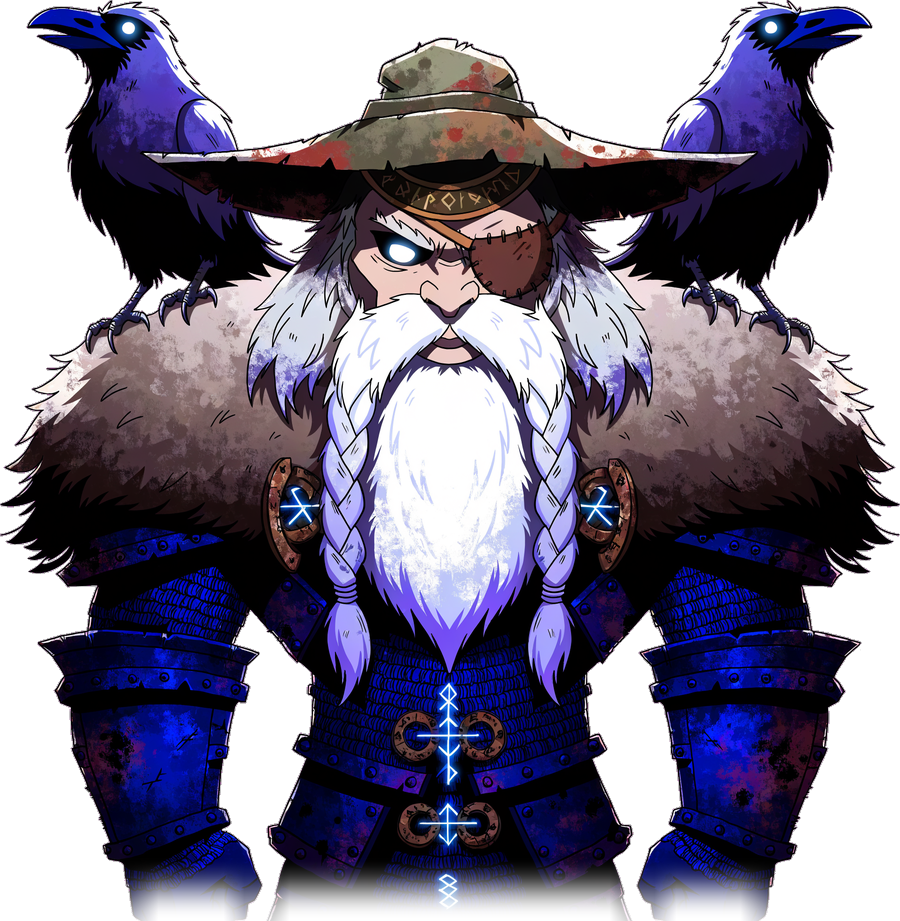
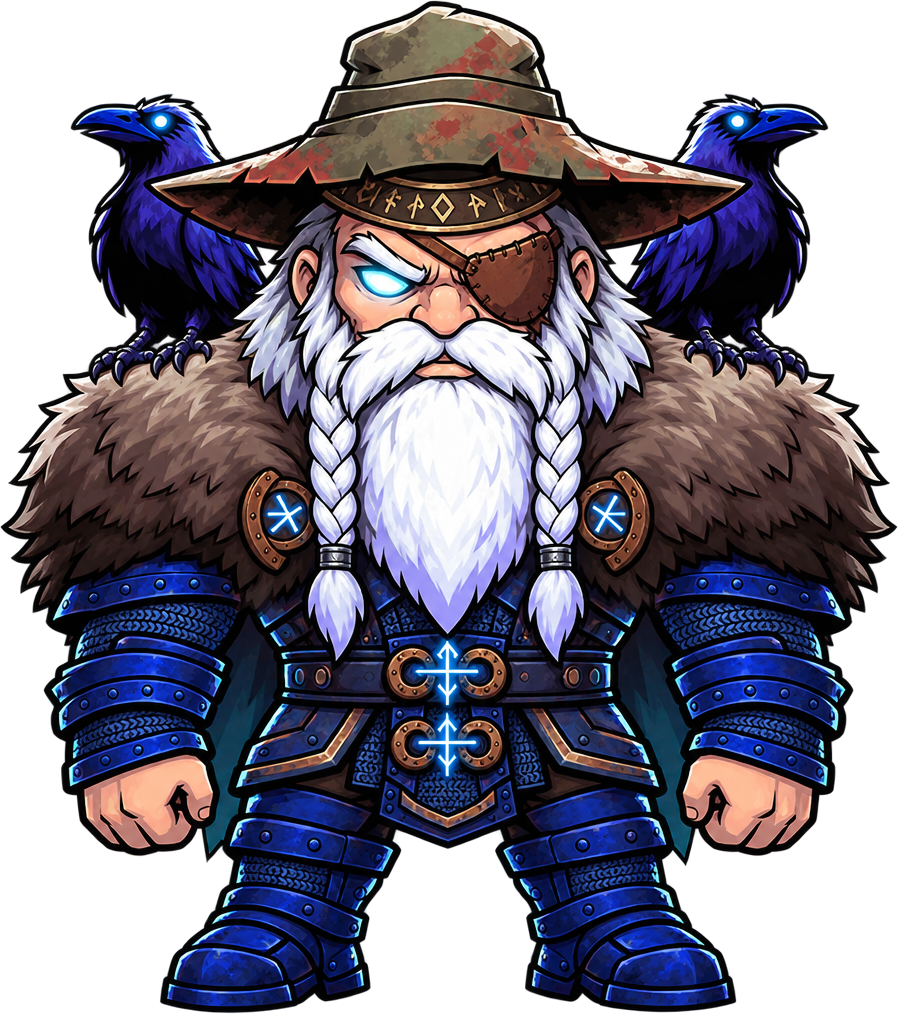
Redraw ODIN as a chibi in Thor's style, lay a Valknut floor under the Gates of the Viking, and set two ravens circling it
The old Odin was an anime-proportioned painting with a purple burst behind him, cut at
mid-thigh with a separately generated boot keyed in at runtime. He did not stand in the
same family as Thor and the dungeon trolls. Higgsfield (gpt_image_2_5 flare, high, 1k,
Thor + the old Odin as references) redrew him as one complete chibi master, so he now
goes through the ordinary RAID_SKINS path: body, hop, breath, lean, foot motion and
Gungnir pivoting on the fist. The odinPainted draw path, ODIN_SKIN and
odin_foot_complete.png are gone. raidBlade takes a soak flag so the spear keeps its own
paint and only borrows the ice-blue glow.

The arena map was a football pitch. It is now a Valknut forecourt in the Thor map's
camera, 1536x1024 like the other maps.

HarborWorld's gull loop became drawFlight (birds, image, size, ink); the Harbour calls it
as before and Odin's arena flies two ravens on it, a top-down raven drawn to match the
gull. Job ids, crops and the reviewed numbers are in assets/boss/odin-manifest.json.

diff --git a/game.js b/game.js
@@ -232,9 +232,12 @@ const CHAR_RUN={};
 const bootImg=new Image();bootImg.src='assets/characters/fot.png';
 const bowImg=new Image();bowImg.src='assets/weapons/bow.png';
 const maceImg=new Image();maceImg.src='assets/weapons/mace.png';
-/* ODIN's art was repainted in the Thor style - same filename, new picture, so the ?v= is what
-   stops a browser that already cached the old boss from serving it forever. */
-const odinImg=new Image();odinImg.src='assets/boss/odin_boss.png?v=2';
+/* ODIN was redrawn as a chibi in Thor's style on 2026-09-22 (assets/boss/odin-manifest.json) - same
+   filename, new picture, so the ?v= is what stops a browser that already cached the old boss from
+   serving it forever. Huginn and Muninn circle his arena on the Harbour's gull flight path. */
+const odinImg=new Image();odinImg.src='assets/boss/odin_boss.png?v=3';
+const odinRavenImg=new Image();odinRavenImg.src='assets/boss/odin_raven.png';
+const ODIN_RAVENS=Object.freeze([[1200,800,780,430,.11,0],[1200,800,560,330,-.09,2.6]]); /* [cx,cy,rx,ry,rad/s,phase] in the 2400x1600 arena */
 const odinSpearImg=new Image();odinSpearImg.src='assets/boss/odin_spear.png?v=2';
 const pickImg=new Image();pickImg.src='assets/weapons/pickaxe.png?v=2'; /* the miner's tool */
 /* the three lords of the Violet Halls - painted bodies + one shared blade, tinted per lord */
@@ -401,7 +404,6 @@ const torWeaponImg=new Image();torWeaponImg.src='assets/boss/tor_weapon.png?v=2'
 const fellordFeetImg=new Image();fellordFeetImg.src='assets/boss/fellord_feet.png?v=2';
 const fellordCompleteFootImg=new Image();fellordCompleteFootImg.src='assets/boss/fellord_foot_complete.png';
 const thorCompleteFootImg=new Image();thorCompleteFootImg.src='assets/boss/thor_foot_complete.png';
-const odinCompleteFootImg=new Image();odinCompleteFootImg.src='assets/boss/odin_foot_complete.png';
 const firelordFeetImg=new Image();firelordFeetImg.src='assets/boss/firelord_feet.png?v=2';
 const frostlordFeetImg=new Image();frostlordFeetImg.src='assets/boss/frostlord_feet.png?v=2';
 const RAID_SKINS={ /* lift = body bottom in radii · wy/wx = weapon grip */
@@ -420,6 +422,9 @@ const RAID_SKINS={ /* lift = body bottom in radii · wy/wx = weapon grip */
  /* Leveling bosses retain their authored torso and weapon scale. */
  krev:{img:krevImg,original:fullKrevImg,frame:[64,55,900,920],cutout:{key:'black'},wpn:()=>cowWeaponImg,glow:'#ff9a2a',lift:0.597717,wy:-0.190304,wx:0.44,size:7.5,ws:0.85},
  thor:{img:torImg,join:[{img:thorCompleteFootImg,crop:[230,500,694,812],cutout:{key:'white',minimum:180,chroma:22,edgeMaximum:180,edgeSoftness:96},x:241,y:764,w:180,h:180*677/578},{img:thorCompleteFootImg,crop:[230,500,694,812],cutout:{key:'white',minimum:180,chroma:22,edgeMaximum:180,edgeSoftness:96},x:476,y:764,w:180,h:180*677/578,flip:true}],wpn:()=>torWeaponImg,glow:'#7fd0ff',zap:true,lift:-0.080532,wy:-0.322482,wx:0.44,size:5.25},
+ /* ⚔ ODIN - one complete chibi master, no joined feet; the foot rows live in EnemyFootProfiles.odin.
+    Gungnir keeps its own paint (soak:false) - only the ice-blue glow is borrowed. */
+ odin:{img:odinImg,wpn:()=>odinSpearImg,grip:[0.5,0.8],glow:'#7fd0ff',soak:false,lift:0.70,wy:-0.196,wx:0.34,size:6.1,ws:0.75},
  /* 🐄 Cow Level herd - painted hell-minotaur; the Alpha draws 2× the normal cow */
  /* ☠ the final boss - twin scythes, one on each side, and mirrored feet */
  reaper:{img:finalBossImg,join:[{img:finalBossFootImg,x:211,y:587,w:130,h:125},{img:finalBossFootImg,x:327,y:587,w:130,h:125,flip:true}],wpn:()=>finalBossWeaponImg,glow:'#a06bd0',lift:0.035975,wy:-0.341921,wx:0.38,wxr:0.30,size:7.3,dual:true,ws:0.78}, /* wxr pulls the right scythe in */
@@ -479,9 +484,9 @@ function mobTinted(img,col){ /* soak the grey sprite in the foe's colour, cached
  if(!colours){colours={};mobTintCache.set(img,colours);}return colours[col]=c;
 }
 const raidBladeCache={};
-function raidBlade(glow,img){ /* the lord's weapon soaked in his colour, cached per art+tint */
+function raidBlade(glow,img,soak=true){ /* the lord's weapon soaked in his colour, cached per art+tint */
  img=img||cowWeaponImg;
- const key=glow+':'+img.src;
+ const key=glow+':'+img.src+(soak?'':':raw');
  if(raidBladeCache[key])return raidBladeCache[key];
  if(!img.complete||!img.naturalWidth)return null;
  const c=document.createElement('canvas');
@@ -489,13 +494,14 @@ function raidBlade(glow,img){ /* the lord's weapon soaked in his colour, cached 
  const g=c.getContext('2d');
  g.imageSmoothingEnabled=true;g.imageSmoothingQuality='high';
  g.drawImage(img,0,0,c.width,c.height);
- g.globalCompositeOperation='source-atop';
- g.fillStyle=glow;g.globalAlpha=0.42; /* soak the art in the tint */
- g.fillRect(0,0,c.width,c.height);
+ if(soak){ /* Gungnir opts out - its painted ice head would go flat under a blue wash */
+  g.globalCompositeOperation='source-atop';
+  g.fillStyle=glow;g.globalAlpha=0.42; /* soak the art in the tint */
+  g.fillRect(0,0,c.width,c.height);
+ }
  return raidBladeCache[key]=c;
 }
 const ratbossImg=new Image();ratbossImg.src='assets/boss/rat_boss.png?v=2'; /* the crypt rat - art faces left */
-const ODIN_SKIN={img:odinImg,join:[{img:odinCompleteFootImg,crop:[181,292,796,933],cutout:{key:'white',minimum:180,chroma:22,edgeMaximum:180,edgeSoftness:96},x:266,y:851,w:170,h:170*677/578},{img:odinCompleteFootImg,crop:[181,292,796,933],cutout:{key:'white',minimum:180,chroma:22,edgeMaximum:180,edgeSoftness:96},x:464,y:851,w:170,h:170*677/578,flip:true}]};
 const RAT_SKIN={img:ratbossImg,original:fullRatImg,frame:[25,19,983,985],cutout:{key:'white',remove:[[160,860,30000]]}};
 const theRingImg=new Image();theRingImg.src='assets/models/thering.png';
 const altarFenceImg=new Image();altarFenceImg.src='assets/models/maps/altarasset.png';
@@ -8442,6 +8448,7 @@ function draw(){
  for(const d of drawables)d.f();
  if(z.city&&world.flocks&&!TideUI.isBattling())CityGround.drawBirds(ctx,world.flocks,{x:cx0,y:cy0,w:cx1-cx0,h:cy1-cy0},cityGroundImages(),now,true);   /* 🕊 the pigeons you startled */
  if(z.harbor&&!TideUI.isBattling())HarborWorld.drawSky(ctx,world,{x:cx0,y:cy0,w:cx1-cx0,h:cy1-cy0},now,harborImages());   /* 🕊 gulls over the masts */
+ if(z.amb==='odin'&&!TideUI.isBattling())HarborWorld.drawFlight(ctx,ODIN_RAVENS,{x:cx0,y:cy0,w:cx1-cx0,h:cy1-cy0},now,odinRavenImg,74,'#1c1c26');   /* 🐦⬛ Huginn and Muninn circle the gates */
  /* 🎆 the sky over the city: fireworks over a jubilant square, snow in a hard winter */
  if(z.city&&world.look&&!TideUI.isBattling()){
   if(world.look.fireworks)CityWorks.drawFireworks(ctx,world,{x:cx0,y:cy0,w:cx1-cx0,h:cy1-cy0},now);
@@ -9937,11 +9944,10 @@ function drawEnemy(en){
  const by=moving?Math.sin(en.walk*2)*1.6:Math.sin(now/700+en.home.x)*0.7;
  ctx.fillStyle='rgba(0,0,0,0.25)';ctx.beginPath();ctx.ellipse(0,en.r*0.55,en.r,en.r*0.42,0,0,7);ctx.fill();
  if(en.slowT>0){ctx.strokeStyle='rgba(160,224,255,0.6)';ctx.lineWidth=1.5;ctx.beginPath();ctx.ellipse(0,en.r*0.5,en.r+3,en.r*0.5,0,0,7);ctx.stroke();}
- const odinPainted=en.bossId==='odin'&&odinImg.complete&&odinImg.naturalWidth;
  const skinKey=en.skin||en.bossId;
- const raidSkin=RAID_SKINS[skinKey]&&RAID_SKINS[skinKey].img.naturalWidth?RAID_SKINS[skinKey]:null; /* raid lords + skinned leveling bosses + dungeon trolls + cow herd */
- const mobSkin=(!raidSkin&&!odinPainted&&!en.boss&&!en.cow&&en.name!=='Crow')?mobSkinFor(en):null; /* painted foes and boss adds - the Crow adds keep their own look */
- if(en.kind!=='undead'&&en.bossId!=='odin'&&!RAID_SKINS[skinKey]&&!mobSkin)feet(en,en.r/13);
+ const raidSkin=RAID_SKINS[skinKey]&&RAID_SKINS[skinKey].img.naturalWidth?RAID_SKINS[skinKey]:null; /* raid lords + ODIN + skinned leveling bosses + dungeon trolls + cow herd */
+ const mobSkin=(!raidSkin&&!en.boss&&!en.cow&&en.name!=='Crow')?mobSkinFor(en):null; /* painted foes and boss adds - the Crow adds keep their own look */
+ if(en.kind!=='undead'&&!RAID_SKINS[skinKey]&&!mobSkin)feet(en,en.r/13);
  let mobExtra=0;
  const dark='rgba(0,0,0,0.28)';
  if(raidSkin){ /* a complete enemy sprite: body and feet share one transform */
@@ -9971,7 +9977,7 @@ function drawEnemy(en){
    }else ctx.drawImage(mip(raidSkin.img,W),-W/2,-H-hop+breath,W,H); /* loading fallback */
    ctx.restore();
   }
-  const bl=raidBlade(raidSkin.glow,raidSkin.wpn?raidSkin.wpn():null);
+  const bl=raidBlade(raidSkin.glow,raidSkin.wpn?raidSkin.wpn():null,raidSkin.soak!==false);
   if(bl){
    const AH=H*(raidSkin.ws||0.6),AW=AH*bl.width/bl.height;
    const bfx=(hero&&hero.x<en.x)?-1:1; /* held on the side it strikes */
@@ -9996,29 +10002,6 @@ function drawEnemy(en){
     ctx.shadowBlur=0;
     ctx.restore();
    }
-  }
- }else if(odinPainted){ /* Odin's surviving artwork is joined into one fixed sprite. */
-  const H=en.r*4.4,W=H*odinImg.naturalWidth/odinImg.naturalHeight;
-  { /* same walk cycle as the skinned lords */
-   const gait=EnemyFootMotion.amount(en),ph=en.wt||0;
-   const hop=Math.abs(Math.sin(ph))*en.r*0.025*gait;
-   ctx.save();
-   ctx.translate(0,en.r*0.1+by);
-   ctx.rotate(Math.sin(ph)*0.045*gait);
-   const whole=EnemyFullbody.get(ODIN_SKIN),px=H/odinImg.naturalHeight;
-   if(whole){
-    const art=EnemyFootMotion.frame(whole.img,EnemyFootProfiles.odin,ph,gait,whole.width*px*(zoom||1)*(DPR||1));
-    ctx.drawImage(mip(art,whole.width*px),-W/2+whole.x*px,-H+whole.y*px-hop,whole.width*px,whole.height*px);
-   }
-   else ctx.drawImage(mip(odinImg,W),-W/2,-H-hop,W,H);
-   ctx.restore();
-  }
-  if(odinSpearImg.complete&&odinSpearImg.naturalWidth){ /* Gungnir - held on the side he strikes, like the hero's weapon */
-   const AH=H*1.0,AW=AH*odinSpearImg.naturalWidth/odinSpearImg.naturalHeight;
-   const bfx=(hero&&hero.x<en.x)?-1:1; /* face the target */
-   ctx.save();ctx.translate(bfx*W*0.42,-H*0.28+by-en.r*0.45);ctx.scale(bfx,1);ctx.rotate(0.5+(en.swing?(0.2-en.swing)*7:0));
-   ctx.drawImage(mip(odinSpearImg,AW),-AW/2,-AH*0.8,AW,AH);
-   ctx.restore();
   }
  }else if(mobSkin){ /* 🎨 painted foe - grey art soaked in this enemy's own colour */
   const H=en.r*(MOB_SIZE[en.kind]||4.6),W=H*mobSkin.naturalWidth/mobSkin.naturalHeight;
@@ -10131,7 +10114,7 @@ function drawEnemy(en){
    ctx.beginPath();ctx.ellipse(0,-en.r-4+by,en.r*0.34,en.r*0.18,0,0,7);ctx.fill();
    ctx.strokeStyle='rgba(127,208,255,'+(0.35+0.25*Math.sin(now/110))+')';
   }else if(B==='odin'){ /* ODIN: blond top, two extra heads, ember glow */
-   if(!odinPainted){
+   if(!raidSkin){ /* the painting has not loaded yet */
    ctx.fillStyle='#f2d98a';
    ctx.beginPath();
    ctx.moveTo(-en.r*0.42,-en.r-2+by);
@@ -10171,7 +10154,7 @@ function drawEnemy(en){
  if(en.hurt>0){ctx.fillStyle='rgba(255,255,255,'+en.hurt*2.5+')';ctx.beginPath();ctx.arc(0,-6+by,en.r*0.9,0,7);ctx.fill();}
  ctx.font=(en.boss?'700 11px ':'600 9px ')+getComputedStyle(document.body).fontFamily;
  ctx.textAlign='center';
- const lblY=(typeof odinPainted!=='undefined'&&odinPainted)?-en.r*4.85:raidSkin?-en.r*((raidSkin.size||5)+0.1):mobSkin?-en.r*((MOB_SIZE[en.kind]||4.6)-0.25)-mobExtra:-en.r-16; /* painted foes stand taller than the old blobs */
+ const lblY=raidSkin?-en.r*((raidSkin.size||5)+0.1):mobSkin?-en.r*((MOB_SIZE[en.kind]||4.6)-0.25)-mobExtra:-en.r-16; /* painted foes stand taller than the old blobs */
  ctx.fillStyle='rgba(0,0,0,0.6)';ctx.fillText(en.name,1,lblY+by+1);
  ctx.fillStyle=en.boss?'#ffd76a':'#ffe9e0';ctx.fillText(en.name,0,lblY+by);
  if((en.hp<en.max||en.boss)&&!en.dead)drawMiniBar(-en.r,lblY+3+by,en.r*2,en.hp/en.max,'#c75146');

diff --git a/assets/city/harbor-world.js b/assets/city/harbor-world.js
@@ -367,24 +367,29 @@
   g.restore();
   if(a.float||a.wash)waterline(g,Ww*(a.wash?.8:.94),time,seed,a.float?0:2);
  }
- /* 🕊 gulls over everything: seven birds on slow ellipses, each with its shadow on whatever is below */
- const GULLS=Object.freeze([[1500,2500,620,300,.13,0],[2900,2350,560,340,-.11,1.7],[2200,1750,900,180,.09,3.1],[3700,2800,380,260,.16,4.4],[800,3000,420,240,-.14,5.2],[2250,3150,300,180,.19,2.2],[3300,1700,500,150,-.08,.9]]);
- function drawSky(g,world,view,time=0,images={}){
-  remembered={...remembered,...images};const im=remembered.seagull;
-  for(const [cx,cy,rx,ry,w,ph] of GULLS){
+ /* 🕊 birds on slow ellipses, each with its shadow on whatever is below. One [cx,cy,rx,ry,w,phase]
+    per bird (w in radians per second, negative to circle the other way). The Harbour's gulls fly
+    it, and Odin's ravens borrow it with their own picture; `ink` is the glyph drawn until that loads. */
+ function drawFlight(g,birds,view,time=0,im=null,size=62,ink='#eef4f6'){
+  for(const [cx,cy,rx,ry,w,ph] of birds){
    const t=time*w+ph,x=cx+Math.cos(t)*rx,y=cy+Math.sin(t)*ry;
    if(x<view.x-120||x>view.x+view.w+120||y<view.y-160||y>view.y+view.h+60)continue;
-   const heading=Math.atan2(Math.cos(t)*ry*Math.sign(w),-Math.sin(t)*rx*Math.sign(w)),beat=1+Math.sin(time*7+ph*5)*.07,size=62;
+   const heading=Math.atan2(Math.cos(t)*ry*Math.sign(w),-Math.sin(t)*rx*Math.sign(w)),beat=1+Math.sin(time*7+ph*5)*.07;
    ellipse(g,x+70,y+120,22,8,'rgba(0,0,0,.16)');
    g.save();g.translate(x,y);g.rotate(heading+Math.PI/2);g.scale(beat,1);
    if(ready(im))g.drawImage(im,-size/2,-size*ih(im)/iw(im)/2,size,size*ih(im)/iw(im));
-   else{g.strokeStyle='#eef4f6';g.lineWidth=3;g.beginPath();g.moveTo(-18,4);g.quadraticCurveTo(-8,-8,0,0);g.quadraticCurveTo(8,-8,18,4);g.stroke();}
+   else{g.strokeStyle=ink;g.lineWidth=3;g.beginPath();g.moveTo(-18,4);g.quadraticCurveTo(-8,-8,0,0);g.quadraticCurveTo(8,-8,18,4);g.stroke();}
    g.restore();
   }
+ }
+ /* 🕊 gulls over everything: seven birds over the basin */
+ const GULLS=Object.freeze([[1500,2500,620,300,.13,0],[2900,2350,560,340,-.11,1.7],[2200,1750,900,180,.09,3.1],[3700,2800,380,260,.16,4.4],[800,3000,420,240,-.14,5.2],[2250,3150,300,180,.19,2.2],[3300,1700,500,150,-.08,.9]]);
+ function drawSky(g,world,view,time=0,images={}){
+  remembered={...remembered,...images};drawFlight(g,GULLS,view,time,remembered.seagull);
  }
  const IMAGES=Object.freeze([...new Set(Object.values(ART).map(a=>a.key).filter(k=>!['lamp','stall_fish','stall_cloth'].includes(k))),'harbor_arrival','harbor_cliff','sea_tile','quay_paving','planks','seagull']);
  const CITY_IMAGES=Object.freeze(['lamp','stall_fish','stall_cloth']);   /* these three are the City's own paintings */
 
- return Object.freeze({create,contains,renderGround,drawProp,drawShadow,drawSky,frame,
+ return Object.freeze({create,contains,renderGround,drawProp,drawShadow,drawSky,drawFlight,frame,
   W,H,XC,Q0,Q1,QUAY,ARRIVAL,FLIGHT,EXIT,EXIT_Y,SPAWN,CLIFF,PIER_A,MOLE,JETTY,LANES,CROSS,HOUSES,SHIPS,FOLK,TALK,HARBOUR_MASTER,ART,IMAGES,CITY_IMAGES});
 });

diff --git a/index.html b/index.html
@@ -871,7 +871,7 @@
 <script src="assets/sprite-cutout-masks.js?v=2"></script>
 <script src="assets/sprite-edges.js?v=2"></script>
 <script src="assets/boss/fullbody.js?v=2"></script>
-<script src="assets/boss/foot-motion-profiles.js?v=1"></script>
+<script src="assets/boss/foot-motion-profiles.js?v=2"></script>
 <script src="assets/boss/foot-motion.js?v=1"></script>
 <script src="assets/characters/layout.js?v=9"></script>
 <script src="assets/weapons/rune-profiles.js?v=1"></script>
@@ -883,7 +883,7 @@
 <script src="assets/city/economy.js?v=11"></script>
 <script src="assets/city/city-works.js?v=4"></script>
 <script src="assets/city/throne-world.js?v=8"></script>
-<script src="assets/city/harbor-world.js?v=1"></script>
+<script src="assets/city/harbor-world.js?v=2"></script>
 <script src="assets/city/city-ground.js?v=1"></script>
 <script src="assets/wasteland/world.js?v=9"></script>
 <script src="assets/wasteland/dungeons.js?v=5"></script>
@@ -907,7 +907,7 @@
 <script src="assets/tides/ui.js?v=17"></script>
 <script src="assets/ui/hero-guide.js?v=2"></script>
 <script src="assets/cloud/firestore-rest.js?v=1"></script>
-<script src="game.js?v=146"></script>
+<script src="game.js?v=147"></script>
 <script src="assets/ui/crafting.js?v=2"></script>
 </body>
 </html>

diff --git a/assets/boss/foot-motion-profiles.js b/assets/boss/foot-motion-profiles.js
@@ -33,7 +33,8 @@ const EnemyFootProfiles=(()=>{
   frostking:feet(911,898,[[302,473,792,855,0],[498,668,792,855,PI]]),
   thor:feet(908,975,[[222,441,822,925,0],[458,677,822,925,PI]]),
   reaper:feet(642,712,[[195,336,660,692,0],[336,474,660,692,PI]]),
-  odin:feet(900,1051,[[248,453,919,1001,0],[453,653,919,1001,PI]]),
+  // ODIN's complete chibi master (2026-09-22): root just below the hanging fists, ankle where the boots flare.
+  odin:feet(898,1014,[[150,448,868,960,0],[452,745,868,960,PI]]),
   // The rat's right boundary stops before the detached poison puddle at x825;
   // its root is below the hand and the tail crossing behind that ankle.
   rat:feet(1024,1024,[[218,512,891,938,0],[641,824,913,966,PI]]),
